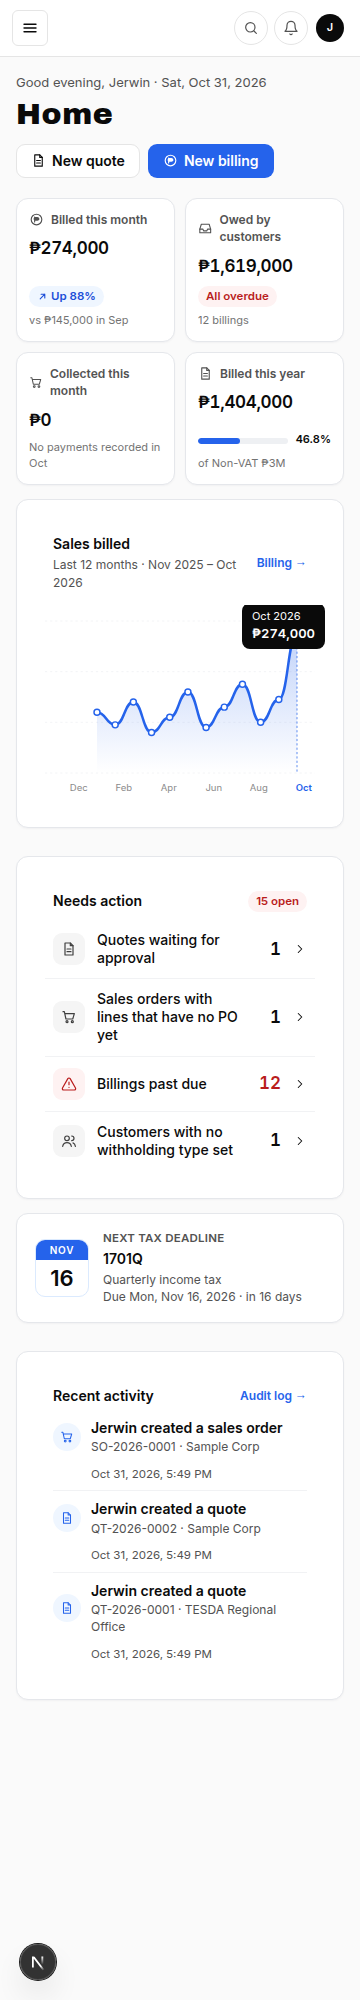
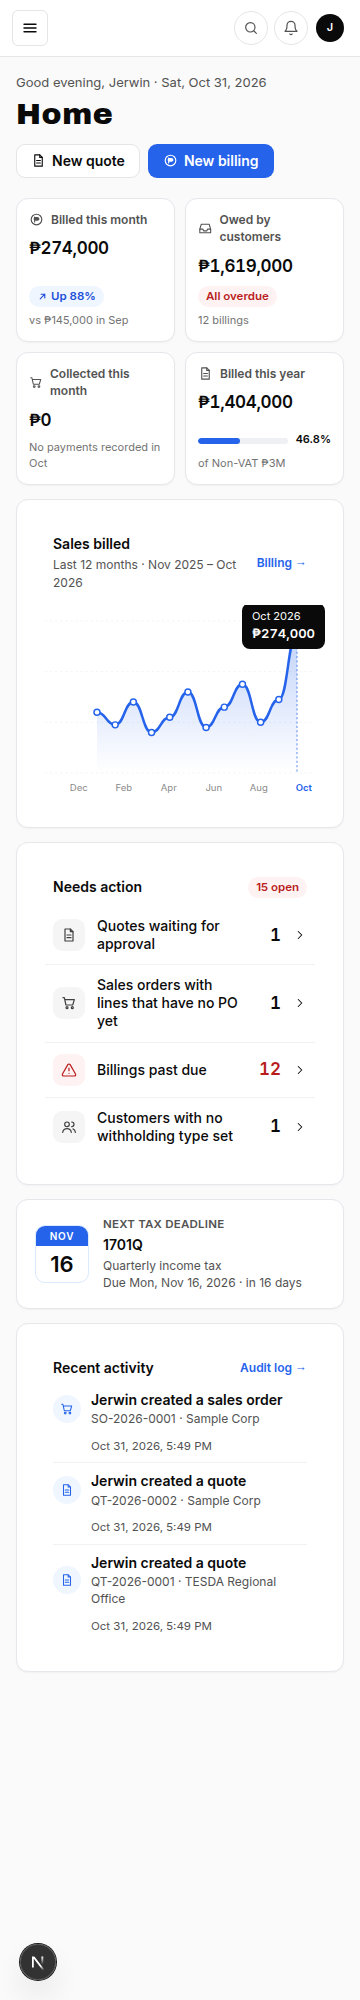
fix(home): align mid/bot rows, void empty seed, shorten empty chart
Stretch Sales billed with Needs action and tax with Recent activity (defeat
card+card margin). Empty screenshot seed now voids billings so Owed is ₱0 —
parking invoice dates only cleared the chart, not AR. Shorten the empty-state
plot so the flat line sits near the empty copy.

diff --git a/src/components/home/SalesChart.tsx b/src/components/home/SalesChart.tsx
@@ -12,6 +12,8 @@ const PAD_R_PX = 18;
 const PAD_B_PX = 0;
 /** Fixed viewBox height; width expands so the chart fills the row. */
 const VB_H = 220;
+/** Short empty-state plot; flat line near the top so little blank sits above it. */
+const VB_H_EMPTY = 28;
 
 function buildSmoothPath(points: { x: number; y: number }[]): string {
   if (points.length === 0) return "";
@@ -54,15 +56,19 @@ export function SalesChart({
   const showAxis = !empty && axisTicks.length > 0;
   const chartMax = showAxis ? Math.max(0, ...axisTicks) : 1;
   const safeMax = chartMax > 0 ? chartMax : 1;
+  const vbH = empty ? VB_H_EMPTY : VB_H;
+  const padTPx = empty ? 6 : PAD_T_PX;
 
   const padL = (showAxis ? PAD_L_PX : PAD_L_EMPTY_PX) / scale;
-  const padR = PAD_R_PX / scale;
-  const padT = PAD_T_PX / scale;
+  const padR = (empty ? 10 : PAD_R_PX) / scale;
+  const padT = padTPx / scale;
   const padB = PAD_B_PX / scale;
   const innerW = Math.max(1, vbW - padL - padR);
-  const innerH = Math.max(1, VB_H - padT - padB);
+  const innerH = Math.max(1, vbH - padT - padB);
   const n = Math.max(1, months.length);
   const slot = innerW / Math.max(1, n - 1 || 1);
+  /** Empty: flat line just under the top padding (not at the SVG bottom). */
+  const emptyLineY = padT + 2 / scale;
 
   useLayoutEffect(() => {
     const svg = svgRef.current;
@@ -71,25 +77,25 @@ export function SalesChart({
       const w = svg.clientWidth;
       const h = svg.clientHeight;
       if (w <= 0 || h <= 0) return;
-      setVbW(VB_H * (w / h));
-      setScale(h / VB_H);
+      setVbW(vbH * (w / h));
+      setScale(h / vbH);
     };
     sync();
     const ro = new ResizeObserver(sync);
     ro.observe(svg);
     return () => ro.disconnect();
-  }, []);
+  }, [vbH]);
 
   const points = useMemo(() => {
     return months.map((m, i) => {
       const value = Number(m.amount);
       const x = n === 1 ? padL + innerW / 2 : padL + slot * i;
       const y = empty
-        ? padT + innerH
+        ? emptyLineY
         : padT + innerH * (1 - Math.max(0, value) / safeMax);
       return { x, y, value, month: m, i };
     });
-  }, [months, n, padL, padT, innerW, innerH, slot, empty, safeMax]);
+  }, [months, n, padL, padT, innerW, innerH, slot, empty, safeMax, emptyLineY]);
 
   const linePath = buildSmoothPath(points.map((p) => ({ x: p.x, y: p.y })));
   const areaPath =
@@ -117,7 +123,7 @@ export function SalesChart({
         <svg
           ref={svgRef}
           className="home-sales-svg"
-          viewBox={`0 0 ${vbW} ${VB_H}`}
+          viewBox={`0 0 ${vbW} ${vbH}`}
           preserveAspectRatio="xMidYMid meet"
           role="img"
           aria-label="Billed sales for the last 12 months"
@@ -147,8 +153,8 @@ export function SalesChart({
               <line
                 x1={0}
                 x2={vbW}
-                y1={padT + innerH}
-                y2={padT + innerH}
+                y1={emptyLineY}
+                y2={emptyLineY}
                 className="home-sales-grid"
               />
             )}

diff --git a/src/app/globals.css b/src/app/globals.css
@@ -4229,13 +4229,20 @@ button.contact-card-add {
   display: grid;
   grid-template-columns: minmax(0, 1fr) 330px;
   gap: 14px;
-  align-items: start;
+  align-items: stretch;
 }
 .home-mid-full {
   grid-template-columns: 1fr;
 }
 .home-dashboard.is-staff .home-mid {
   grid-template-columns: 1fr;
+}
+/* Defeat `.card + .card { margin-top }` so Sales billed + Needs action share one top. */
+.home-mid > .card {
+  margin-top: 0;
+  height: 100%;
+  align-self: stretch;
+  box-sizing: border-box;
 }
 
 .home-ct {
@@ -4278,8 +4285,16 @@ button.contact-card-add {
   position: relative;
   padding: 8px 18px 0 52px;
 }
+.home-sales-chart.is-empty {
+  margin-top: 8px;
+  margin-bottom: 0;
+}
 .home-sales-chart.is-empty .home-sales-chw {
-  padding-left: 10px;
+  padding: 4px 18px 0 10px;
+}
+.home-sales-chart.is-empty .home-sales-svg {
+  height: 28px;
+  max-height: 28px;
 }
 .home-sales-yl {
   position: absolute;
@@ -4356,7 +4371,7 @@ button.contact-card-add {
   color: #8a8a8a;
 }
 .home-sales-chart.is-empty .home-sales-ml {
-  padding-left: 10px;
+  padding: 4px 18px 8px 10px;
 }
 .home-sales-ml span {
   width: 30px;
@@ -4368,7 +4383,7 @@ button.contact-card-add {
   font-weight: 800;
 }
 .home-sales-empty {
-  padding: 4px 18px 18px;
+  padding: 0 18px 16px;
   display: flex;
   flex-direction: column;
   align-items: flex-start;
@@ -4437,13 +4452,20 @@ button.contact-card-add {
   display: grid;
   grid-template-columns: 330px minmax(0, 1fr);
   gap: 14px;
-  align-items: start;
+  align-items: stretch;
 }
 .home-bot-full {
   grid-template-columns: 1fr;
 }
 .home-dashboard.is-staff .home-bot {
   /* keep tax + activity side by side when both present */
+}
+/* Defeat `.card + .card { margin-top }` so tax + Recent activity share one top. */
+.home-bot > .card {
+  margin-top: 0;
+  height: 100%;
+  align-self: stretch;
+  box-sizing: border-box;
 }
 
 .home-tax {

diff --git a/tests/home-sales.test.ts b/tests/home-sales.test.ts
@@ -259,6 +259,20 @@ describe("home concept A layout wiring", () => {
     expect(chartSrc).toMatch(/formatPesoWhole\(current\.month\.amount\)/);
   });
 
+  it("aligns mid/bot card rows at desktop and shortens the empty chart plot", () => {
+    expect(css).toMatch(/\.home-mid\s*\{[^}]*align-items:\s*stretch/s);
+    expect(css).toMatch(/\.home-bot\s*\{[^}]*align-items:\s*stretch/s);
+    expect(css).toMatch(/\.home-mid\s*>\s*\.card[^}]*margin-top:\s*0/s);
+    expect(css).toMatch(/\.home-bot\s*>\s*\.card[^}]*margin-top:\s*0/s);
+    expect(css).toMatch(/\.home-sales-chart\.is-empty\s+\.home-sales-svg[^}]*height:\s*28px/s);
+    const chartSrc = readFileSync(path.join(root, "src/components/home/SalesChart.tsx"), "utf8");
+    expect(chartSrc).toMatch(/VB_H_EMPTY/);
+    const seed = readFileSync(path.join(root, "scripts/home-a-seed-shots.mjs"), "utf8");
+    // Empty seed voids billings (fixture), not just parks invoice dates — so Owed is ₱0.
+    expect(seed).toMatch(/EMPTY_VOID_REASON|emptyAllBillings/);
+    expect(seed).toMatch(/status:\s*"VOID"/);
+  });
+
   it("staff layout omits sales KPIs/chart and stays full-width without holes", () => {
     expect(page).toMatch(/is-staff/);
     expect(page).toMatch(/home-mid-full|is-staff/);
